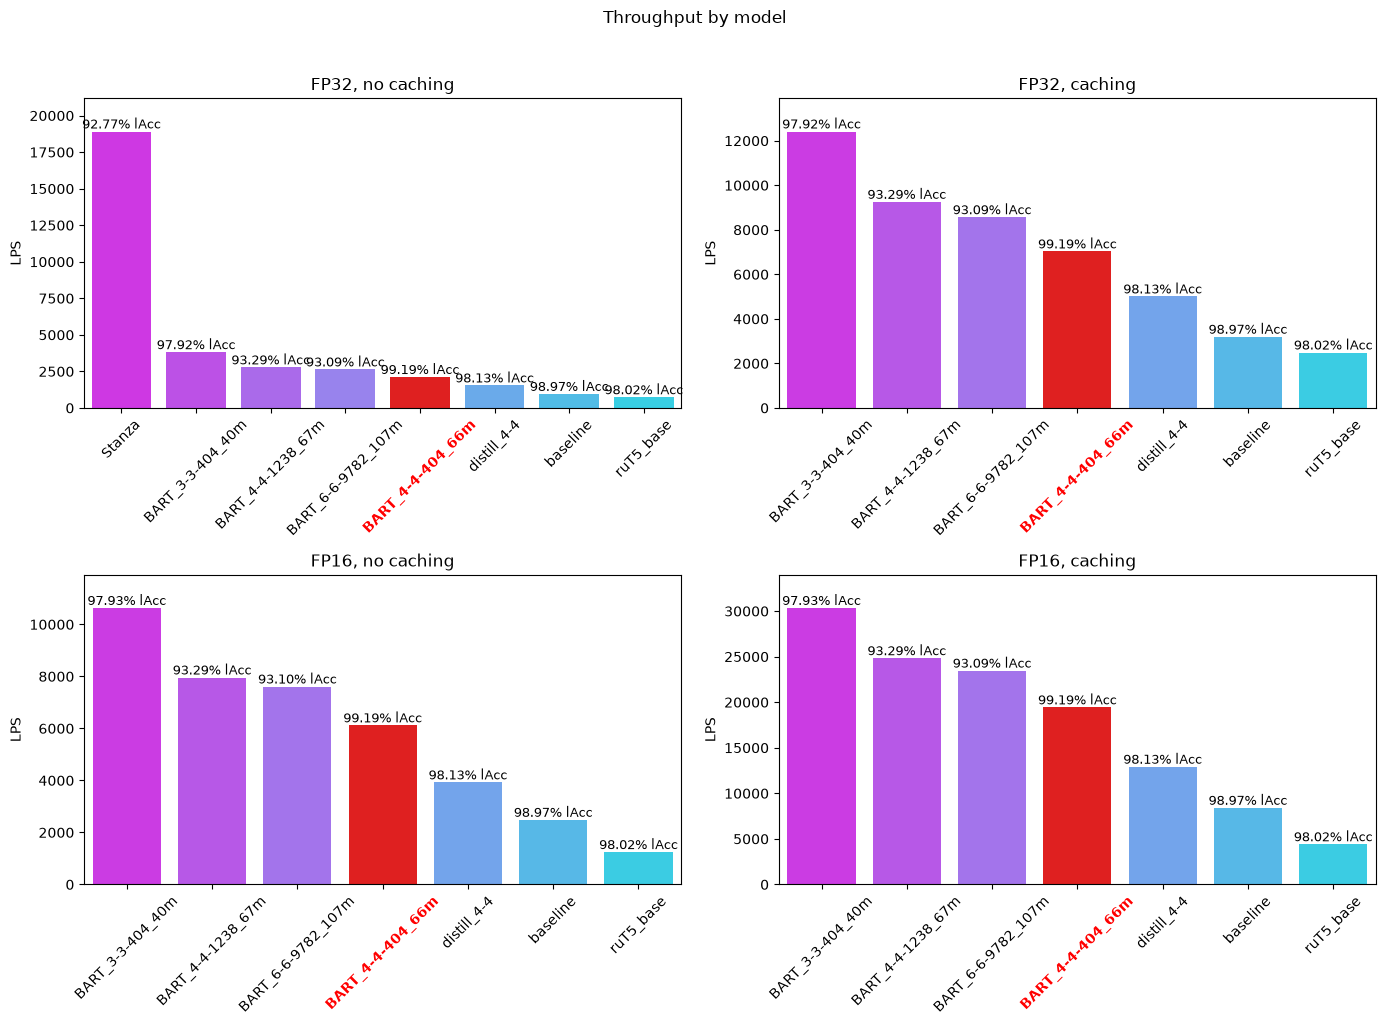
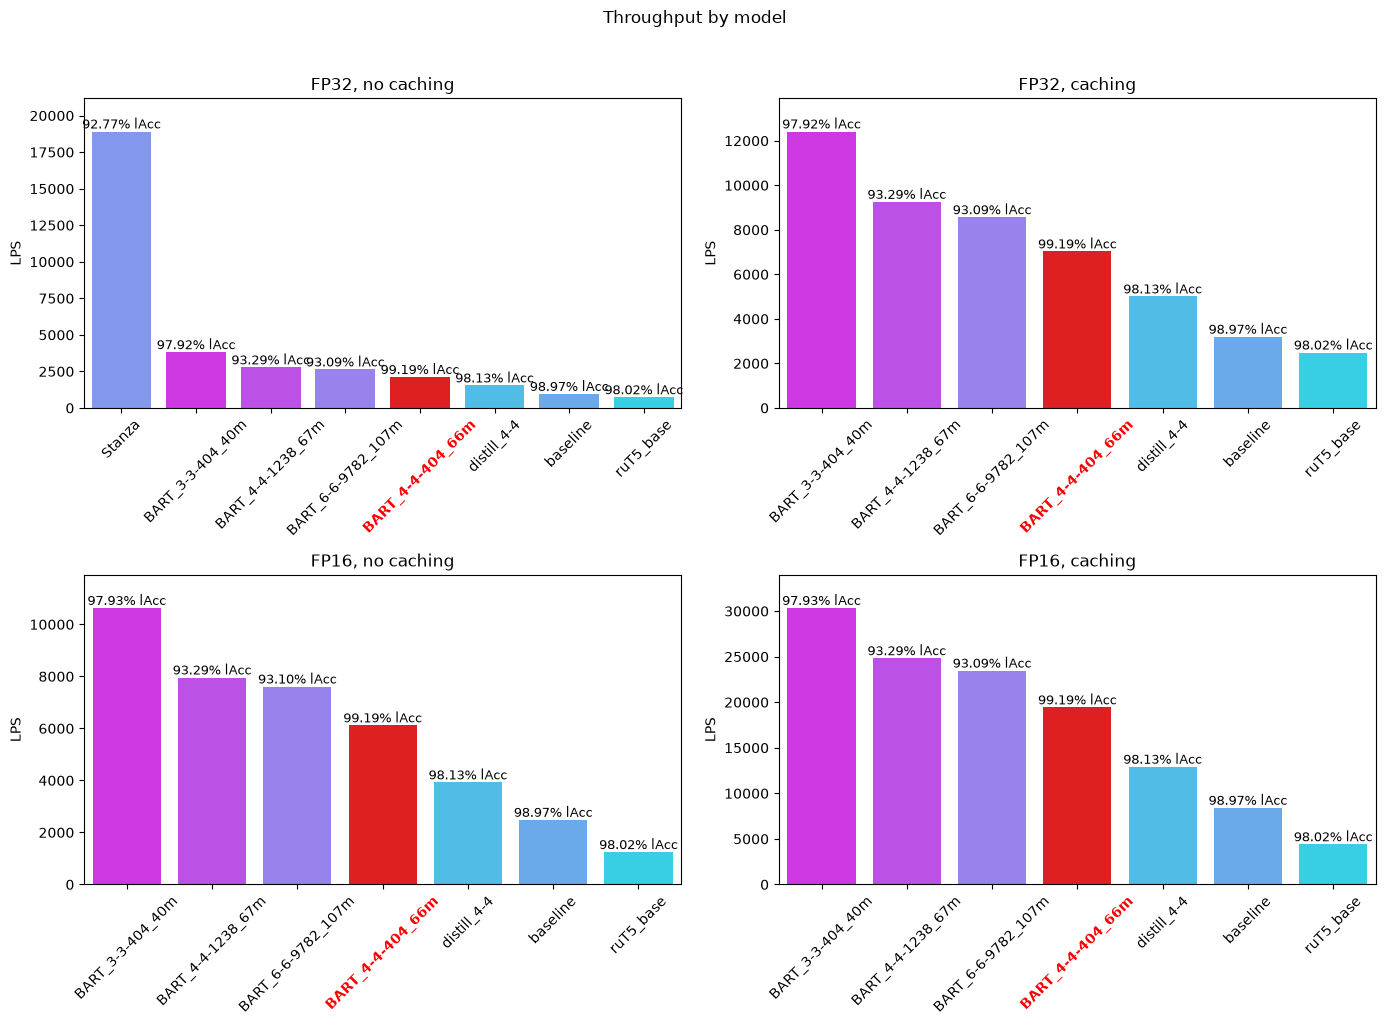
make global palette for barplot

diff --git a/src/visuals.py b/src/visuals.py
@@ -49,6 +49,10 @@ def plot_throughput(
     fig, axes = plt.subplots(2, 2, figsize=figsize)
     axes_flat = axes.flatten()
 
+    # One palette for all models so colors stay consistent across dtype/caching panels
+    # (e.g. Stanza only appears in fp32/no-cache but must not shift other models' hues).
+    global_palette = _build_palette(sorted(model_names), colors)
+
     for ax, (dtype, caching, title) in zip(axes_flat, permutations, strict=True):
         subset = throughput_df[
             (throughput_df["dtype"] == dtype)
@@ -59,7 +63,7 @@ def plot_throughput(
             subset.sort_values(metric, ascending=False)["model name"]
             .tolist()
         )
-        palette = _build_palette(order, colors)
+        palette = {model: global_palette[model] for model in order}
 
         sns.barplot(
             data=subset,
